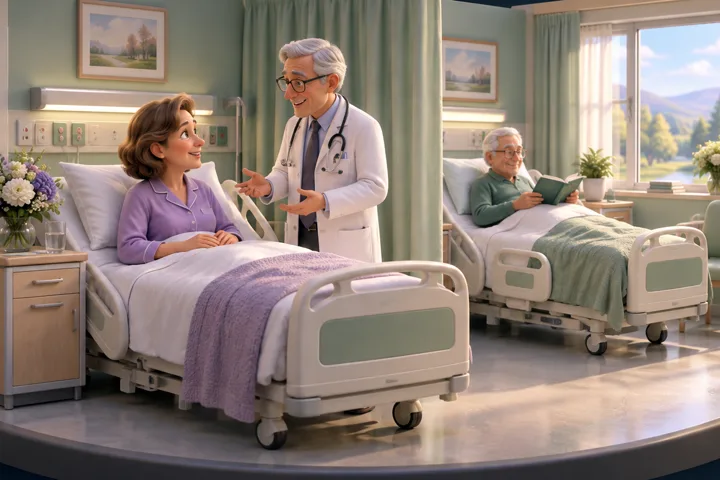
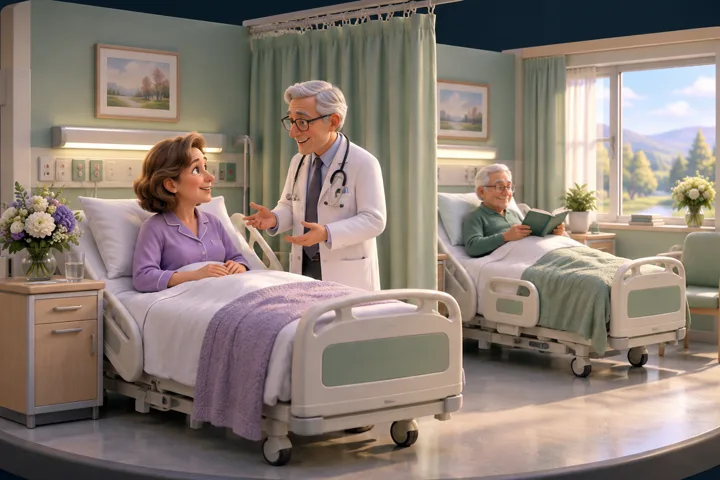
Bildsitz: Szenen und Kartenbilder ohne abgeschnittene Köpfe
Frank 07.10.2026: Köpfe auf Vorsorge-Karte abgeschnitten, alle Bilder prüfen.
Kopfbereich-Szene beginnt unter der Navigation, nach oben ausgerichtet, auf
großen Bildschirmen höher. Kartenbilder mit mehr Luft oben neu zugeschnitten
und nach oben ausgerichtet.

diff --git a/src/components/desktop/SceneHero.jsx b/src/components/desktop/SceneHero.jsx
@@ -5,7 +5,9 @@ import useDesktopLayout from '@/hooks/useDesktopLayout';
 // Healio-Figurenstil füllt die Bühne, im Bild stehen nur Überschrift und Knopf.
 // Erklärung, Angebot und Hinweise kommen als `children` direkt darunter.
 // Die Szenen sind links dunkel (#071726), deshalb beginnt das Bild erst nach
-// dem ersten Siebtel und läuft über einen Verlauf in den Grund.
+// dem ersten Siebtel und läuft über einen Verlauf in den Grund. Oben beginnt
+// es unter der Navigation und ist nach oben ausgerichtet, damit auf großen
+// Bildschirmen keine Köpfe abgeschnitten werden (Frank 07.10.2026).
 export const sceneHeroImages = {
   home: '/images/hero-desktop/start.webp',
   ambulant: '/images/hero-desktop/ambulant.webp',
@@ -54,13 +56,13 @@ const SceneHero = ({ surface, image, headingId, heading, actions, children, clas
           aria-hidden="true"
           fetchPriority="high"
           decoding="async"
-          className="absolute inset-y-0 right-0 -z-20 h-full w-[86%] object-cover object-[80%_50%]"
+          className="absolute bottom-0 right-0 top-20 -z-20 h-[calc(100%-5rem)] w-[86%] object-cover object-[80%_22%]"
         />
         <div className="absolute inset-0 -z-10 bg-[linear-gradient(90deg,#071726_0%,#071726_14%,rgba(7,23,38,0.78)_30%,rgba(7,23,38,0.32)_52%,rgba(7,23,38,0)_74%)]" aria-hidden="true" />
-        <div className="absolute inset-x-0 top-0 -z-10 h-40 bg-gradient-to-b from-[#071726]/75 to-transparent" aria-hidden="true" />
+        <div className="absolute inset-x-0 top-20 -z-10 h-28 bg-gradient-to-b from-[#071726] to-transparent" aria-hidden="true" />
         <div className="absolute inset-x-0 bottom-0 -z-10 h-[38%] bg-gradient-to-t from-[#071726] to-transparent" aria-hidden="true" />
 
-        <div className="mx-auto flex min-h-[min(100svh,54rem)] w-full max-w-7xl flex-col justify-end px-8 pb-20 pt-36">
+        <div className="mx-auto flex min-h-[min(100svh,54rem)] w-full max-w-7xl flex-col justify-end px-8 pb-20 pt-36 2xl:min-h-[min(100svh,62rem)]">
           <div className="max-w-[44rem]">
             <Heading
               id={headingId}

diff --git a/src/components/sections/ambulant/AmbulantConversionFlow.jsx b/src/components/sections/ambulant/AmbulantConversionFlow.jsx
@@ -445,7 +445,7 @@ const AmbulantConversionFlow = ({ fromBonusTopic = false }) => {
                         height="480"
                         loading="lazy"
                         decoding="async"
-                        className="h-full w-full object-cover transition duration-500 group-hover:scale-[1.04] motion-reduce:transition-none"
+                        className="h-full w-full object-cover object-[50%_20%] transition duration-500 group-hover:scale-[1.04] motion-reduce:transition-none"
                       />
                     </span>
                     <span className="block p-4 md:p-5">
@@ -817,7 +817,7 @@ const AmbulantConversionFlow = ({ fromBonusTopic = false }) => {
                       height="540"
                       loading="lazy"
                       decoding="async"
-                      className="h-full w-full object-cover transition-transform duration-500 group-hover:scale-[1.03] motion-reduce:transform-none"
+                      className="h-full w-full object-cover object-[50%_20%] transition-transform duration-500 group-hover:scale-[1.03] motion-reduce:transform-none"
                     />
                   </div>
                   <div className="p-5 md:p-6">

diff --git a/src/components/desktop/DesktopHomeJourney.jsx b/src/components/desktop/DesktopHomeJourney.jsx
@@ -10,7 +10,7 @@ const productScenes = { ambulant: '/images/home-cards/ambulant.webp', zahn: '/im
 
 const SceneImage = ({ src }) => (
   <div className="relative aspect-[16/10] w-full overflow-hidden bg-[#071726]">
-    <img src={src} alt="" aria-hidden="true" width="720" height="540" loading="lazy" decoding="async" className="h-full w-full object-cover transition-transform duration-500 group-hover:scale-[1.03] motion-reduce:transform-none" />
+    <img src={src} alt="" aria-hidden="true" width="720" height="540" loading="lazy" decoding="async" className="h-full w-full object-cover object-[50%_20%] transition-transform duration-500 group-hover:scale-[1.03] motion-reduce:transform-none" />
   </div>
 );
 

diff --git a/src/components/sections/dental/DentalHighlightCards.jsx b/src/components/sections/dental/DentalHighlightCards.jsx
@@ -302,7 +302,7 @@ const DentalHighlightCards = () => {
                         height="480"
                         loading="lazy"
                         decoding="async"
-                        className="h-full w-full object-cover transition duration-500 group-hover:scale-[1.04] motion-reduce:transition-none"
+                        className="h-full w-full object-cover object-[50%_20%] transition duration-500 group-hover:scale-[1.04] motion-reduce:transition-none"
                       />
                     </span>
                     <span className="flex flex-1 flex-col p-6">

diff --git a/src/components/home/InsurancePathway.jsx b/src/components/home/InsurancePathway.jsx
@@ -70,7 +70,7 @@ const InsurancePathway = () => {
                     height="540"
                     loading="lazy"
                     decoding="async"
-                    className="h-full w-full object-cover transition-transform duration-500 group-hover:scale-[1.03] motion-reduce:transform-none"
+                    className="h-full w-full object-cover object-[50%_20%] transition-transform duration-500 group-hover:scale-[1.03] motion-reduce:transform-none"
                   />
                 </span>
                 <span className="flex flex-1 flex-col p-5 md:p-7">

diff --git a/src/components/home/HowHealioWorks.jsx b/src/components/home/HowHealioWorks.jsx
@@ -62,7 +62,7 @@ const HowHealioWorks = () => {
                     height="540"
                     loading="lazy"
                     decoding="async"
-                    className="h-full w-full object-cover transition-transform duration-500 group-hover:scale-[1.03] motion-reduce:transform-none"
+                    className="h-full w-full object-cover object-[50%_20%] transition-transform duration-500 group-hover:scale-[1.03] motion-reduce:transform-none"
                   />
                 </div>
                 <div className="p-5 md:p-7">
